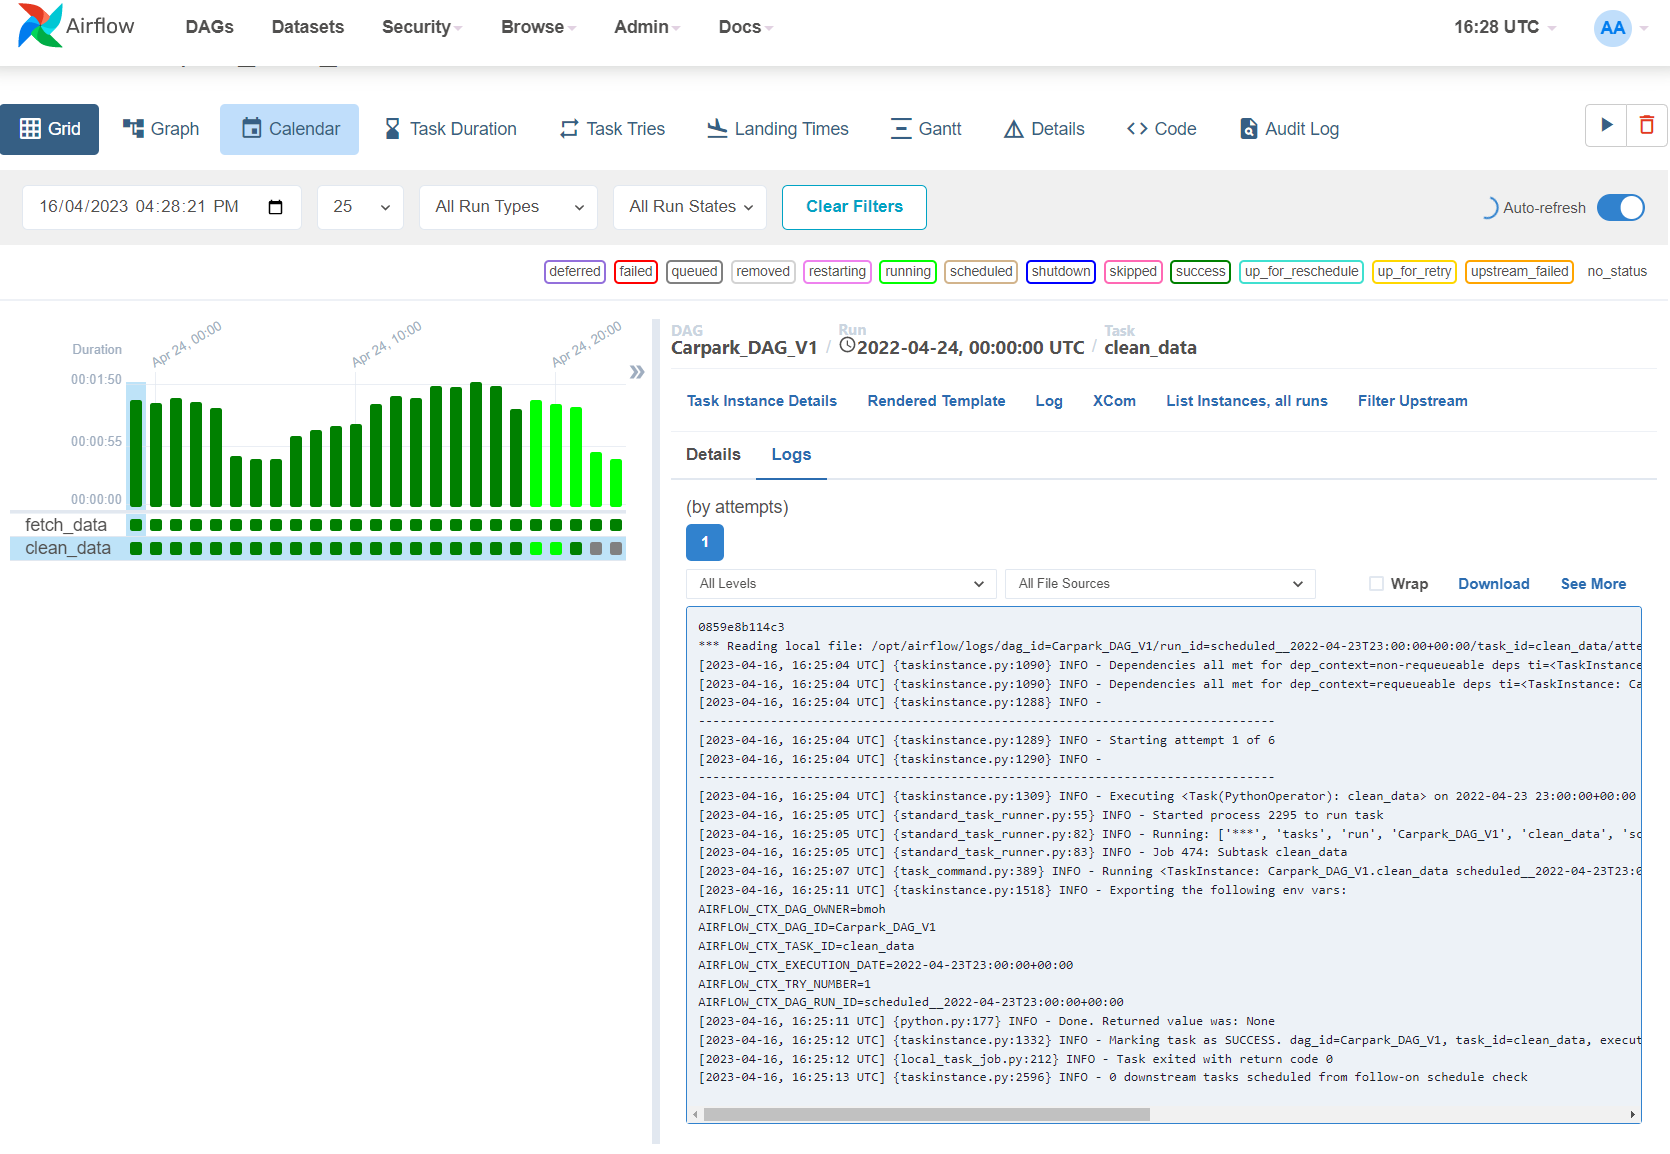
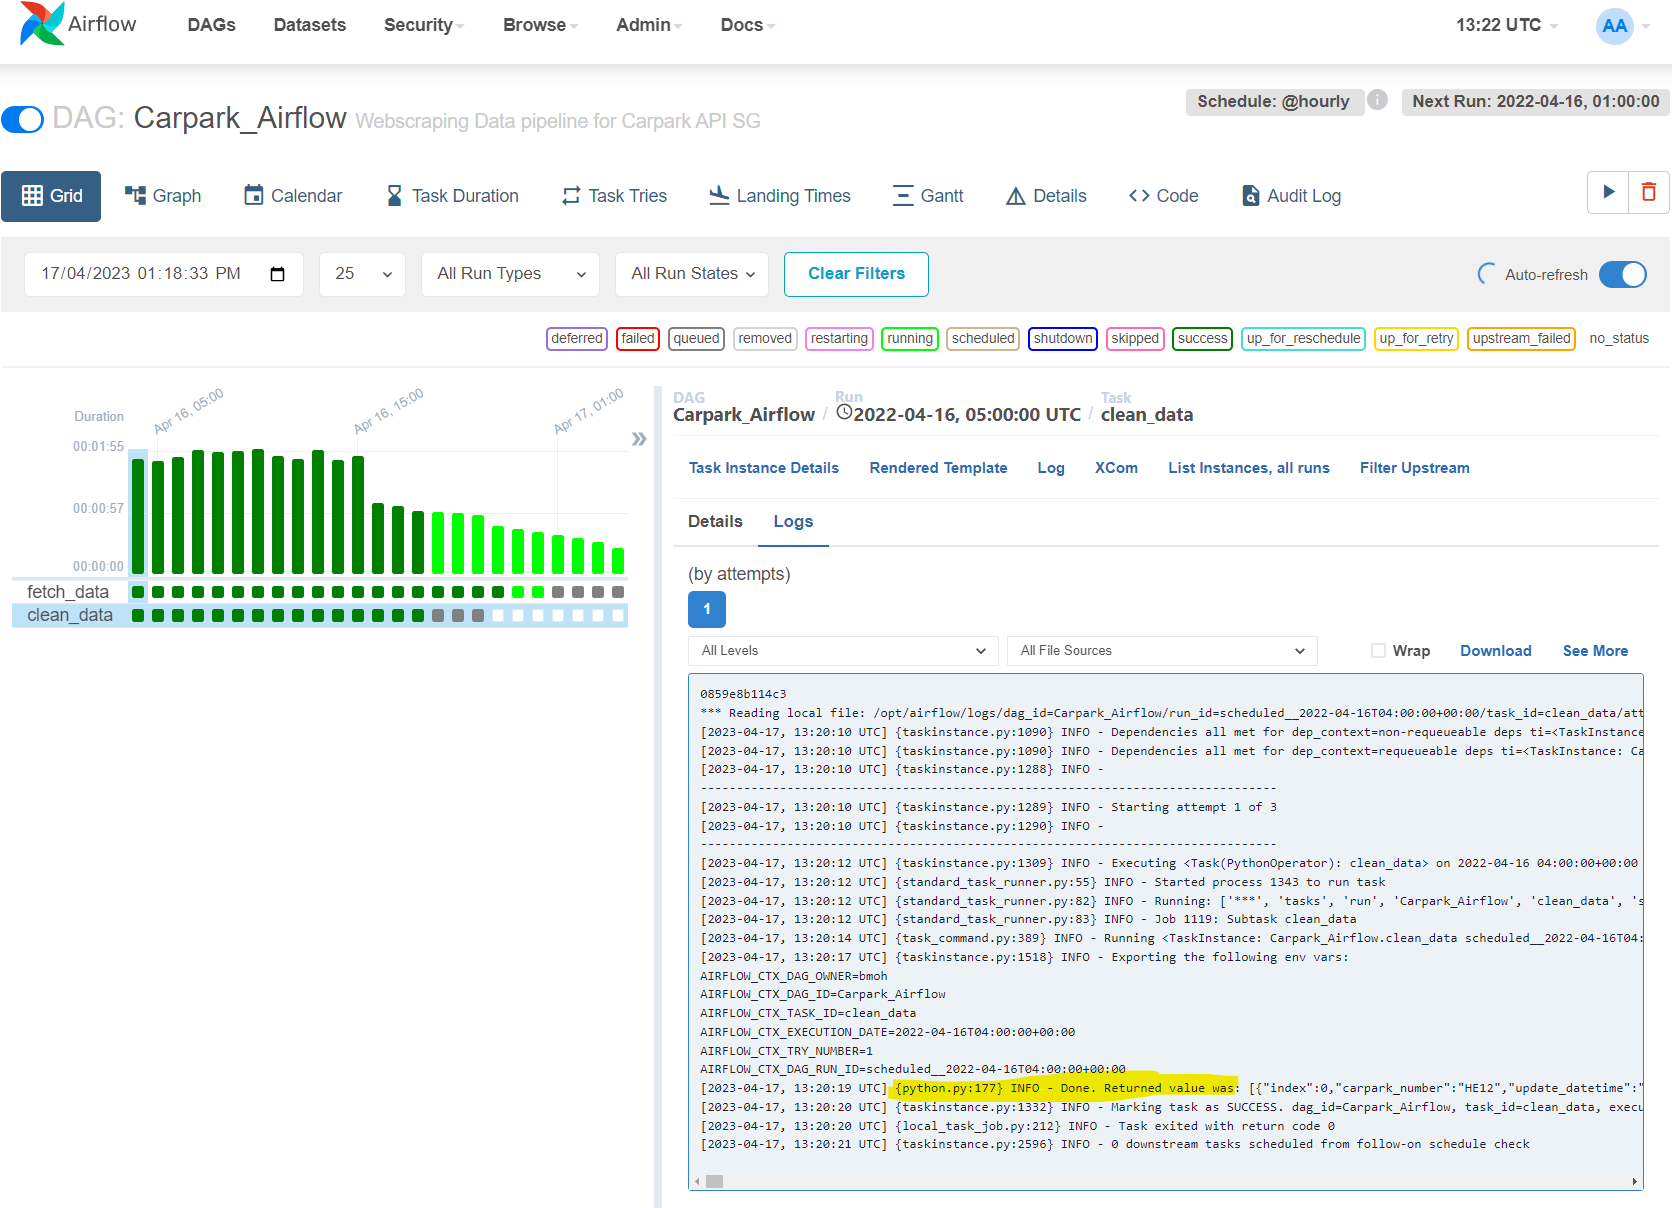
Updated carpark_dag.py

diff --git a/dags/carpark_dag.py b/dags/carpark_dag.py
@@ -27,17 +27,17 @@ def clean_data(ti):
     # Split carpark_info into multiple columns 
     normalize_data = pd.json_normalize(raw_df['carpark_info'])
 
-    # Join back everything and write to csv file 
+    # Join back everything and return JSON output 
     raw_df = raw_df.reset_index()
     clean_df = pd.concat([raw_df, normalize_data], axis=1)
     clean_df = clean_df.drop('carpark_info', axis=1)
-    clean_df.to_csv('Files.csv')
-
+    output = clean_df.to_json(orient = "records")
+    return output
 
 # Specify DAG default arguments
 default_args = {
     'owner': 'bmoh',
-    'retries': 5,
+    'retries': 2,
     'retry_delay': timedelta(minutes=5),
 }
 
@@ -45,7 +45,7 @@ default_args = {
 # Create DAG
 with DAG(
     default_args = default_args,
-    dag_id = "Carpark_DAG_V1",
+    dag_id = "Carpark_Airflow",
     description = 'Webscraping Data pipeline for Carpark API SG',
     start_date = datetime(2022,4,16),
     schedule_interval = "@hourly" 

diff --git a/README.md b/README.md
@@ -1,13 +1,19 @@
 ## Carpark API Airflow
 This is a project on using Airflow on Docker to periodically run a certain set of tasks based on Airflow scheduler defined. Specifically, the data pipeline does the following:
-1. Scrape data from Carpark API availability website [here](https://api.data.gov.sg/v1/transport/carpark-availability)
-2. Take in raw API json data using ```ti.xcom_pull(task_ids = 'XXX') ``` and clean it into a tabular format such as excel file. An example of raw API data looks like this:
+1. Scrape data from Carpark API availability website [here](https://api.data.gov.sg/v1/transport/carpark-availability). An example of raw API data looks like this:
     ```
     {'carpark_info': [{'total_lots': '105', 'lot_type': 'C', 'lots_available': '0'}], 'carpark_number': 'HE12', 'update_datetime': '2023-04-15T15:23:01'}
     ```
-3. Write the raw API json data to a cleaned csv file
-
-Note that CeleryExecutor is chosen in Airflow which means that parallel tasks are run at the same time and more information can be found at this [website](https://hevodata.com/learn/airflow-parallelism/#2) 
+2. Take in raw API json data using ```ti.xcom_pull(task_ids = 'XXX') ``` and clean it into a JSON output. Clean output should look something like this:
+    ```
+    [{"index":1929,"carpark_number":"SS1L","update_datetime":"2023-04-17T21:07:45","total_lots":"4","lot_type":"C","lots_available":"0"}]
+    ```
+## Important notes
+1. CeleryExecutor is chosen in Airflow which means that parallel tasks are run at the same time and more information can be found at this [website](https://hevodata.com/learn/airflow-parallelism/#2) 
+2. XCOMS by default can only accept JSON - if any of your task returns any fomat apart from JSON, ```xcom.py``` will throw an error log such as ```object of type dataframe is not json serializable```
+    - Solution out is either to convert data type to json OR
+    - ```enable_xcom_pickling = True``` -> Not recommended since vulnerable to external database infiltrations
+3. Each time you edit your code, update the dag_id (easiest way for Airflow UI to reflect changes)
 
 
 ## Configuration Details
@@ -27,7 +33,7 @@ Configure [Airflow in Docker](https://airflow.apache.org/docs/apache-airflow/sta
 ## End result
 1. Once Airflow is deployed on Docker, you can access webserver link at http://localhost:8080
     - ![plot](Images/Airflow%20login.png)
-2. Find the DAG "Carpark_DAG_V1" inside the main UI interface. You can check the task log by clicking onto each individual tasks:
+2. Find the DAG "Carpark_Airflow" inside the main UI interface. You can check the task log by clicking onto each individual tasks. Final cleaned output (See yellow highlighted) is JSON which complies with data format of XCOMS Airflow (hence no error thrown in Audit log)
     - ![plot](Images/Airflow%20Main.png)
 3. The task ```clean_data``` pulls information from ```fetch_data``` via the function ```ti.xcom_pull(task_ids = 'XXX')```:
     - ![plot](Images/Airflow%20TI%20Xcoms.png)
